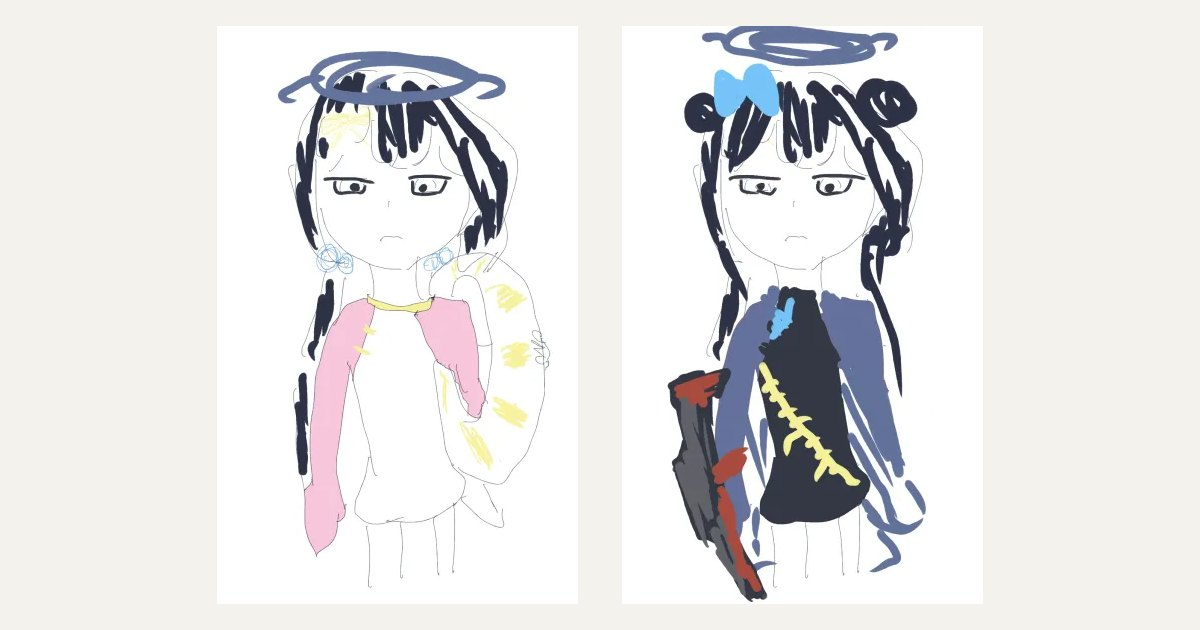
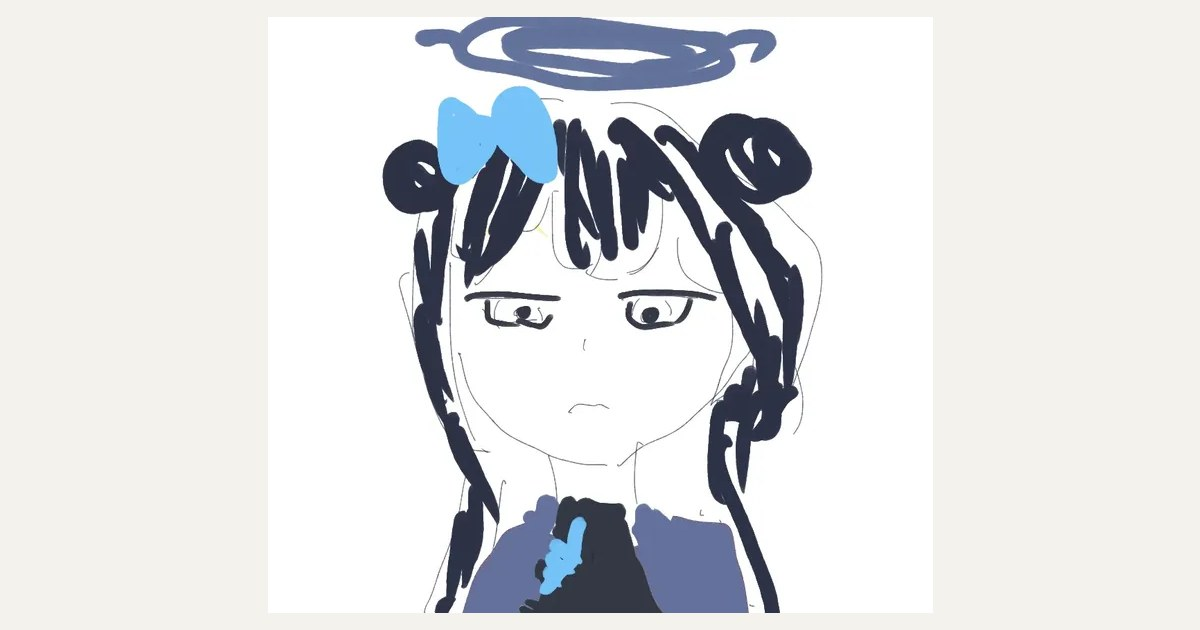
リザルトに山を出し、Xへ画像付きで出せるようにする
- OGP画像をキサキの上半身に差し替え（1200×630）。
  作品ページのOGPも webp から jpg へ（X が webp のカード画像を取りこぼすため）
- リザルトに、仕分けた数だけキキを左・キサキを右に積む。プレイ中より大きい札で
- 結果を1枚の画像に描いて共有できるようにした。
  X の投稿画面には画像を添付する手段が無いので、
  スマホはOSの共有シート（Web Share API）、PCはクリップボードへコピーの2経路

Changed region(s): [[0.2158, 0.0, 0.7708, 0.9952]]

diff --git a/public/games/kiki-kisaki/index.html b/public/games/kiki-kisaki/index.html
@@ -188,6 +188,26 @@ body.pixel .chip img{image-rendering:pixelated;}
 /* カウントダウン */
 #count3{font-size:clamp(70px,22vw,180px);line-height:1;font-family:var(--font-en);}
 
+/* リザルト。仕分けた数だけ、キキを左・キサキを右に積んで見せる */
+#resultField{
+  display:flex;align-items:center;justify-content:center;
+  gap:clamp(10px,3vw,34px);width:100%;max-width:100%;
+}
+#resultBody{
+  display:flex;flex-direction:column;align-items:center;
+  gap:clamp(10px,2.4vh,22px);min-width:0;
+}
+.pile.big{
+  width:clamp(92px,16vw,196px);
+  align-content:center;gap:5px;
+  max-height:min(64vh,520px);
+}
+.pile.big .chip{width:44px;height:44px;}
+@media (max-width:520px){
+  .pile.big{width:clamp(74px,22vw,96px);gap:4px;}
+  .pile.big .chip{width:34px;height:34px;}
+}
+
 /* リザルト */
 .resultTime{
   font-family:var(--font-en);font-size:clamp(40px,13vw,96px);line-height:1;
@@ -366,6 +386,7 @@ const S = {
   raf: 0,
   timer: 0,
   cleared: false,
+  byAnswer: null,    // キキ／キサキをそれぞれ何枚さばいたか
 };
 
 /* ---------- 画面 ---------- */
@@ -414,6 +435,7 @@ function startRun() {
   S.run = 0;
   S.cleared = false;
   S.deadReason = null;
+  S.byAnswer = { KIKI: 0, KISAKI: 0 };
 
   hud.classList.add("on");
   pad.classList.add("on");
@@ -579,6 +601,7 @@ function stack(answer, card) {
 function judge(answer) {
   if (answer === S.card.answer) {
     S.sorted++;
+    S.byAnswer[answer]++;
     countEl.textContent = S.sorted;
     stack(answer, S.card);
     S.typed = answer;
@@ -637,6 +660,96 @@ function tick() {
   S.raf = requestAnimationFrame(tick);
 }
 
+/* ---------- 結果を1枚の画像にする ---------- */
+/* X の投稿画面（intent）には画像を添付する手段が仕様として無い。
+   なので結果を canvas に描いて、
+   ・スマホ … OSの共有シート（Web Share API）へ画像ごと渡す
+   ・PC   … クリップボードへコピーして、投稿欄に貼れる状態にする
+   の2経路にしている。どちらも使えない環境では、文だけの投稿になる。 */
+function renderCard(ms) {
+  const W = 1200, H = 630, PAD = 30;
+  const cv = document.createElement("canvas");
+  cv.width = W; cv.height = H;
+  const g = cv.getContext("2d");
+  g.fillStyle = "#f4f2ed"; g.fillRect(0, 0, W, H);
+
+  // 左右の山
+  const colW = 232;
+  const drawPile = (answer, x0) => {
+    const n = (S.byAnswer && S.byAnswer[answer]) || 0;
+    if (!n) return;
+    const cols = 4, gap = 6;
+    const size = Math.max(18, Math.min(58, Math.floor((colW - gap * (cols - 1)) / cols),
+                                       Math.floor((H - PAD * 2 - gap * (Math.ceil(n / cols) - 1)) / Math.max(1, Math.ceil(n / cols)))));
+    const rows = Math.ceil(n / cols);
+    const totalH = rows * size + (rows - 1) * gap;
+    const card = D.cards.find(c => c.answer === answer && c.src);
+    const im = card && IMGS.get(card.src);
+    for (let i = 0; i < n; i++) {
+      const r = Math.floor(i / cols), c = i % cols;
+      const x = x0 + c * (size + gap);
+      const y = Math.round((H - totalH) / 2) + r * (size + gap);
+      if (im && im.complete && im.naturalWidth) {
+        // 縦長の絵から、上のほう（顔）を正方形で抜く
+        const sw = im.naturalWidth, sh = sw;
+        g.drawImage(im, 0, Math.round((im.naturalHeight - sh) * 0.12), sw, sh, x, y, size, size);
+      } else {
+        g.fillStyle = answer === "KIKI" ? "#ffe9c9" : "#d9e6ff";
+        g.fillRect(x, y, size, size);
+      }
+    }
+  };
+  drawPile("KIKI", PAD);
+  drawPile("KISAKI", W - PAD - colW);
+
+  // 真ん中
+  const JP = '"Hiragino Kaku Gothic ProN","Yu Gothic","Noto Sans JP",sans-serif';
+  const EN = '"Helvetica Neue",Arial,sans-serif';
+  const cx = W / 2;
+  g.textAlign = "center"; g.textBaseline = "alphabetic";
+
+  g.fillStyle = "#e0301e"; g.font = `600 34px ${JP}`;
+  g.fillText(S.cleared ? "COMPLETE" : (S.deadReason === "WRONG" ? "誤仕分け" : "時間切れ"), cx, 200);
+
+  g.fillStyle = "#101010"; g.font = `700 116px ${EN}`;
+  g.fillText(fmt(ms), cx, 330);
+
+  g.font = `500 32px ${JP}`;
+  g.fillText(`仕分け数 ${S.sorted} キサキ`, cx, 392);
+
+  g.fillStyle = "#6a6a6a"; g.font = `600 26px ${JP}`;
+  g.fillText("キキ？キサキ？", cx, 460);
+  g.font = `400 19px ${EN}`;
+  g.fillText((D.shareUrl || "").replace(/^https?:\/\//, ""), cx, 492);
+
+  return cv;
+}
+
+const cardBlob = (cv) => new Promise(res => cv.toBlob(res, "image/png"));
+
+/* できる範囲でいちばん良い出し方を選ぶ */
+async function shareResult(ms, text, ev) {
+  let blob = null;
+  try { blob = await cardBlob(renderCard(ms)); } catch {}
+  if (!blob) return false;
+  const file = new File([blob], "kiki-kisaki.png", { type: "image/png" });
+
+  // スマホ：共有シートへ画像ごと渡す
+  if (navigator.canShare && navigator.canShare({ files: [file] }) && navigator.share) {
+    if (ev) ev.preventDefault();
+    try { await navigator.share({ files: [file], text }); return true; } catch { return true; }
+  }
+  // PC：クリップボードへ入れて、投稿欄に貼れるようにする
+  try {
+    if (navigator.clipboard && window.ClipboardItem) {
+      await navigator.clipboard.write([new ClipboardItem({ "image/png": blob })]);
+      const n = $("pasteNote");
+      if (n) n.textContent = "画像をコピーした。Xの投稿欄で Ctrl+V（Macは ⌘V）で貼れる。";
+    }
+  } catch {}
+  return false;
+}
+
 /* ---------- 終わり ---------- */
 
 /* タブを離れると requestAnimationFrame が止まる（ブラウザの仕様）。
@@ -672,6 +785,16 @@ function dead(reason) {
   finish();
 }
 
+/* リザルトに出す山のHTML。プレイ中と同じ絵を、数だけ並べる */
+function pileHtml(answer) {
+  const card = D.cards.find(c => c.answer === answer && c.src);
+  const n = (S.byAnswer && S.byAnswer[answer]) || 0;
+  const one = card
+    ? `<div class="chip hasimg" data-k="${answer}"><img src="${asset(card.src)}" alt=""></div>`
+    : `<div class="chip" data-k="${answer}"></div>`;
+  return one.repeat(n);
+}
+
 function finish() {
   S.phase = "over";
   bgmStop();                             // 失敗した瞬間に切る
@@ -695,31 +818,45 @@ function finish() {
 
   setTimeout(() => {
     stage.innerHTML = `
-      ${S.cleared
-        ? `<p class="kicker">Complete</p>`
-        : `<p class="deadWord">${S.deadReason === "WRONG" ? "誤仕分け" : "時間切れ"}</p>`}
-      ${ms >= D.titleAtMs ? `<div class="crown">${D.title}</div>` : ``}
-      <p class="kicker">${isBest ? "New Record" : "Record"}</p>
-      <p class="resultTime">${fmt(ms)}</p>
-      <p class="resultSub">仕分け数 <b>${S.sorted}</b> キサキ</p>
-      ${!isBest && best ? `<p class="best">BEST ${fmt(best.ms)} / ${best.sorted}人仕分け</p>` : ``}
-      <div class="row">
-        <button class="mini" id="again">もう一度（R）</button>
-        <a class="mini" id="tweet" href="https://x.com/intent/post?text=${share}" target="_blank" rel="noopener">結果をXに投稿</a>
-        <button class="mini" id="home">タイトルへ</button>
+      <div id="resultField">
+        <div class="pile big" id="rpileL">${pileHtml("KIKI")}</div>
+        <div id="resultBody">
+          ${S.cleared
+            ? `<p class="kicker">Complete</p>`
+            : `<p class="deadWord">${S.deadReason === "WRONG" ? "誤仕分け" : "時間切れ"}</p>`}
+          ${ms >= D.titleAtMs ? `<div class="crown">${D.title}</div>` : ``}
+          <p class="kicker">${isBest ? "New Record" : "Record"}</p>
+          <p class="resultTime">${fmt(ms)}</p>
+          <p class="resultSub">仕分け数 <b>${S.sorted}</b> キサキ</p>
+          ${!isBest && best ? `<p class="best">BEST ${fmt(best.ms)} / ${best.sorted}人仕分け</p>` : ``}
+          <div class="row">
+            <button class="mini" id="again">もう一度（R）</button>
+            <a class="mini" id="tweet" href="https://x.com/intent/post?text=${share}" target="_blank" rel="noopener">結果をXに投稿</a>
+            <button class="mini" id="home">タイトルへ</button>
+          </div>
+          <p class="best" id="pasteNote"></p>
+        </div>
+        <div class="pile big" id="rpileR">${pileHtml("KISAKI")}</div>
       </div>
     `;
     $("again").addEventListener("click", () => { S.offset = 0; startCountdown(); });
     $("home").addEventListener("click", showTitle);
+    const tw = $("tweet");
+    if (tw) tw.addEventListener("click", (ev) => { shareResult(ms, decodeURIComponent(share), ev); });
   }, S.deadReason ? 420 : 0);   // ミスの瞬間を一拍見せる
 }
 
 /* 1枚目の札が一瞬空になるのを防ぐ。カウントダウンの2秒で足りる */
 let preloaded = false;
+const IMGS = new Map();          // 結果画像を描くときにも使い回す
 function preload() {
   if (preloaded || typeof Image === "undefined") return;
   preloaded = true;
-  for (const src of new Set(D.cards.map(c => c.src).filter(Boolean))) new Image().src = asset(src);
+  for (const src of new Set(D.cards.map(c => c.src).filter(Boolean))) {
+    const im = new Image();
+    im.src = asset(src);
+    IMGS.set(src, im);
+  }
 }
 
 /* ---------- BGM ---------- */

diff --git a/src/content/works/kiki-kisaki.md b/src/content/works/kiki-kisaki.md
@@ -7,6 +7,8 @@ status: published
 priceType: free
 thumbnail: /images/works/kiki-kisaki.webp
 heroImage: /images/works/kiki-kisaki.webp
+# X は webp のカード画像を取りこぼすことがあるので、OGPだけ jpg を指す
+ogImage: /games/kiki-kisaki/ogp.jpg
 description: 園児服のときは「キキ」、そうでないときは「キサキ」と名乗っている謎の女。時間内にタイプしろ！
 links:
   - label: 遊ぶ
